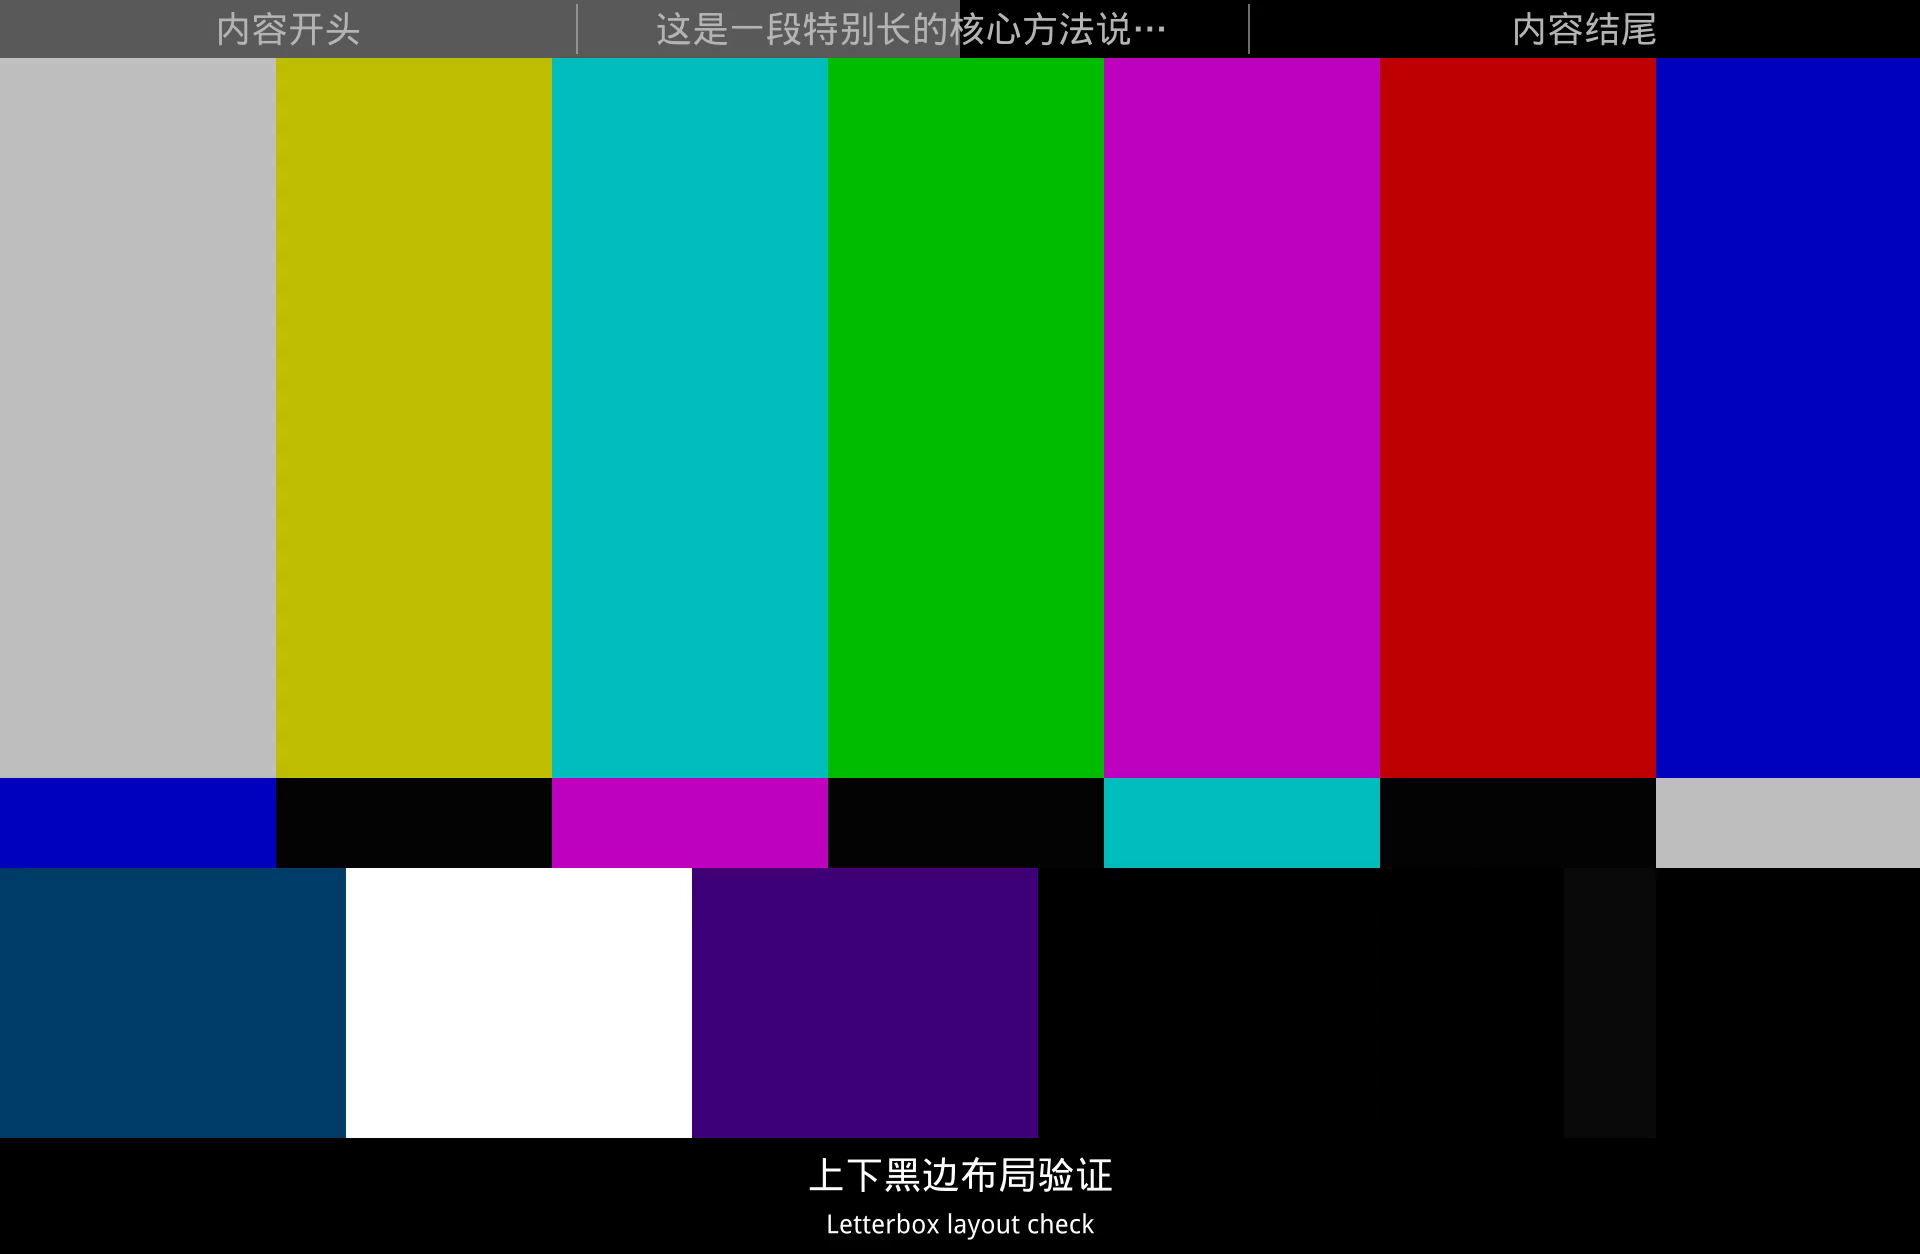
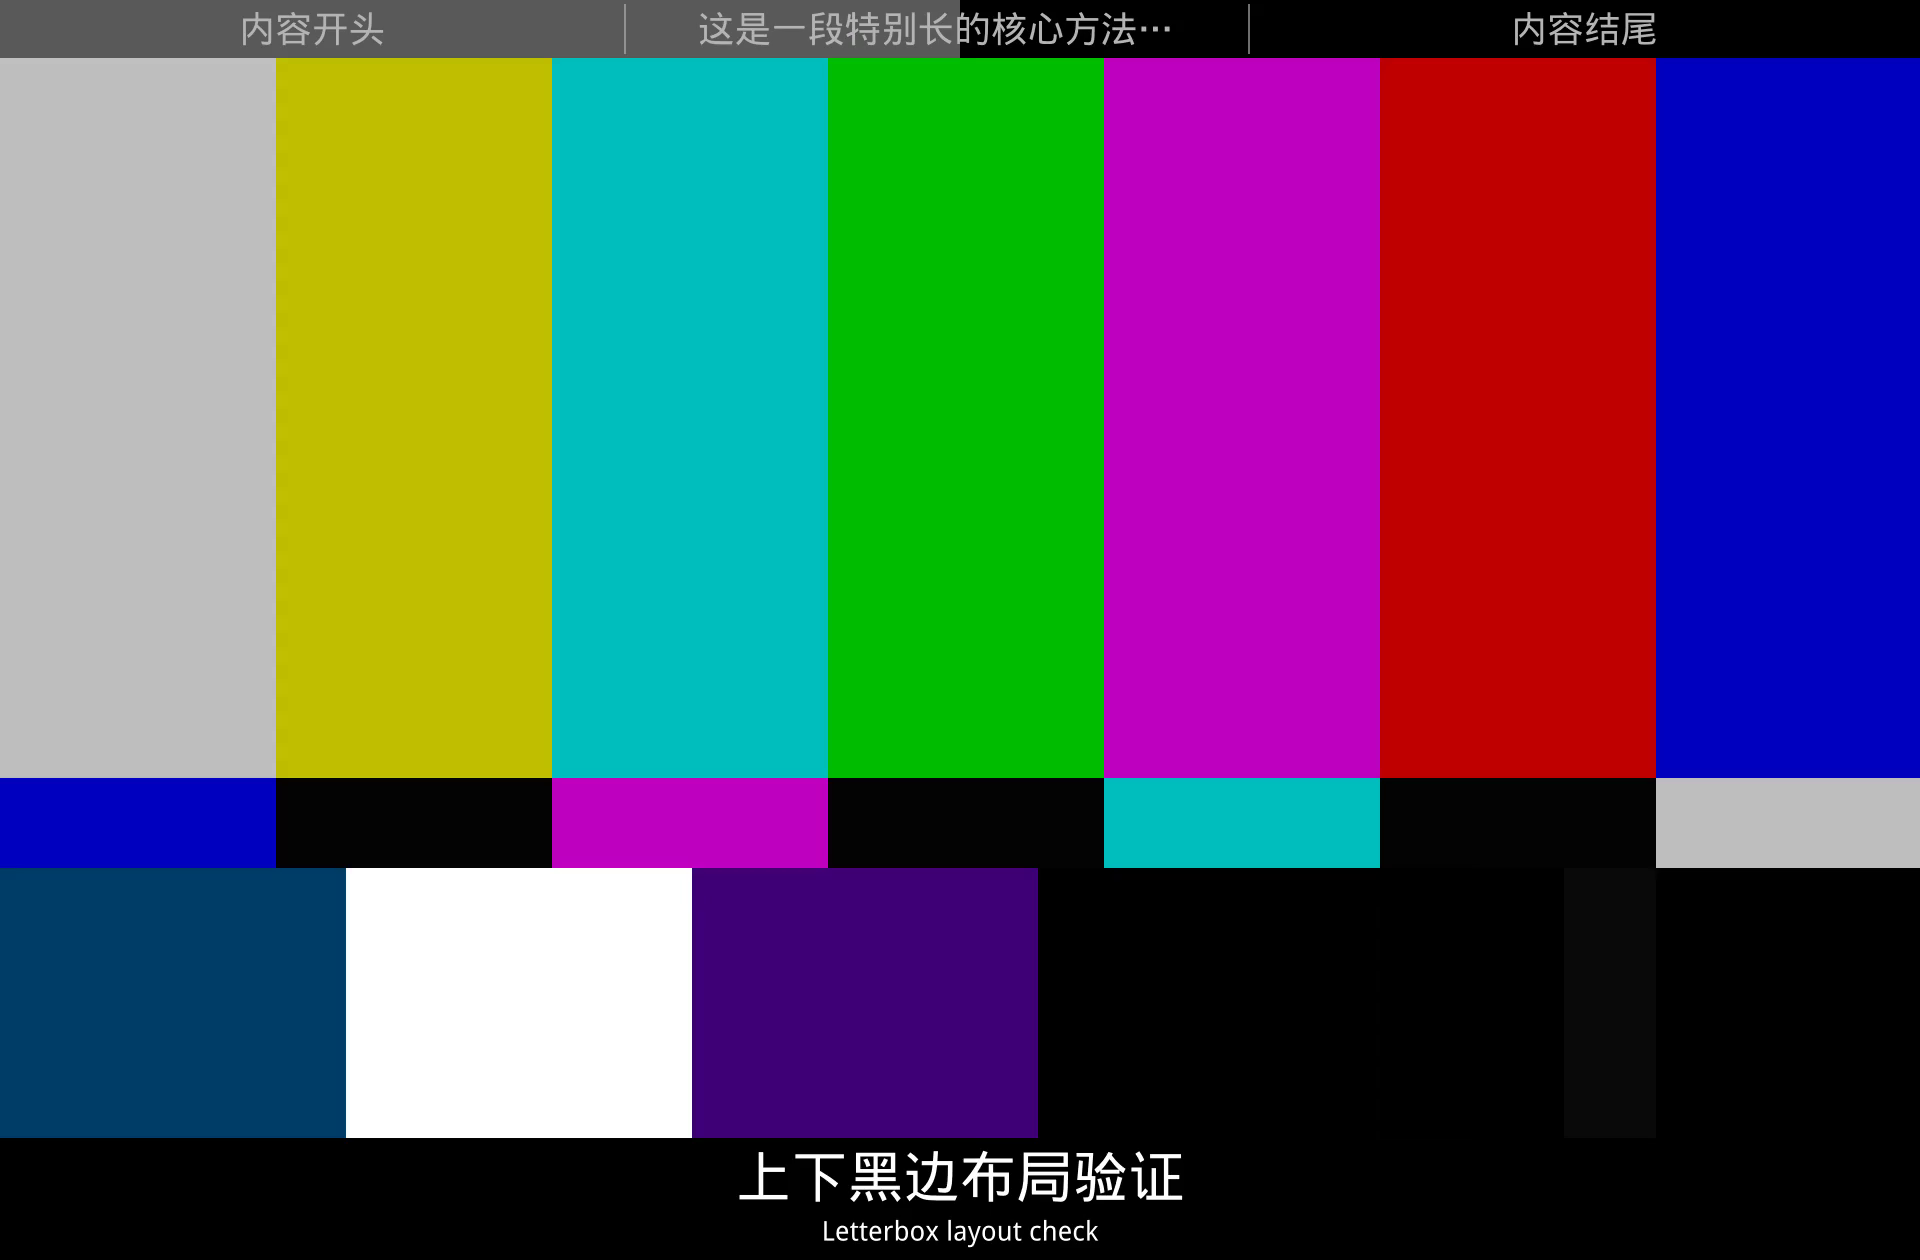
锁定 F3 底栏双语字幕排版
1080p 横屏中文约 66pt、英文约 32pt，行距收紧并顶对齐贴画面；顶栏窄章节条保持不变。

diff --git a/scripts/burn_subtitles.py b/scripts/burn_subtitles.py
@@ -37,6 +37,19 @@ _PROGRESS_LABEL_COLOUR = "&H00B4B4B4&"
 _PROGRESS_FILL_COLOUR = "&H00C8C8C8&"
 _PROGRESS_FILL_ALPHA = "&H8C&"
 _CAPTION_PRIMARY_COLOUR = "&H00FFFFFF&"
+# F3 bottom captions: larger Chinese, smaller English, packed toward the video.
+_CAPTION_ZH_FONT_MIN = 40
+_CAPTION_ZH_HEIGHT_RATIO_LANDSCAPE = 0.062
+_CAPTION_ZH_HEIGHT_RATIO_PORTRAIT = 0.050
+_CAPTION_EN_FONT_MIN = 20
+_CAPTION_EN_FONT_RATIO = 0.48
+_CAPTION_ZH_LINE_RATIO = 1.05
+_CAPTION_EN_LINE_RATIO = 1.08
+_CAPTION_STACK_GAP_RATIO = 0.04
+_CAPTION_STACK_TOP_INSET_RATIO = 0.08
+_CAPTION_BOTTOM_BREATHING_RATIO = 0.20
+_CAPTION_BOTTOM_PAD_MIN = 72
+_CAPTION_BOTTOM_PAD_MIN_BILINGUAL = 96
 _DEFAULT_BEAUTY_STRENGTH_PERCENT = 10.0
 _DEFAULT_BRIGHTEN_STRENGTH_PERCENT = 10.0
 _BRIGHTEN_LAYER_BRIGHTNESS = 0.08
@@ -581,8 +594,22 @@ def letterbox_layout(
     content_width = _even_dimension(content_width)
     content_height = _even_dimension(content_height)
     is_portrait = content_height > content_width
-    zh_font = max(40, int(content_height * (0.034 if is_portrait else 0.042)))
-    en_font = max(24, int(round(zh_font * 0.70))) if bilingual else 0
+    zh_font = max(
+        _CAPTION_ZH_FONT_MIN,
+        int(
+            content_height
+            * (
+                _CAPTION_ZH_HEIGHT_RATIO_PORTRAIT
+                if is_portrait
+                else _CAPTION_ZH_HEIGHT_RATIO_LANDSCAPE
+            )
+        ),
+    )
+    en_font = (
+        max(_CAPTION_EN_FONT_MIN, int(round(zh_font * _CAPTION_EN_FONT_RATIO)))
+        if bilingual
+        else 0
+    )
     progress_font = (
         max(
             _PROGRESS_FONT_MIN,
@@ -608,11 +635,19 @@ def letterbox_layout(
     else:
         top_pad = _even_dimension(max(48, int(content_height * 0.044)))
 
-    zh_line = int(zh_font * 1.20)
-    en_line = int(en_font * 1.22) if bilingual else 0
-    stack_gap = int(zh_font * 0.10) if bilingual else 0
+    zh_line = int(zh_font * _CAPTION_ZH_LINE_RATIO)
+    en_line = int(en_font * _CAPTION_EN_LINE_RATIO) if bilingual else 0
+    stack_gap = int(zh_font * _CAPTION_STACK_GAP_RATIO) if bilingual else 0
+    stack_top_inset = max(0, int(zh_font * _CAPTION_STACK_TOP_INSET_RATIO))
     bottom_pad = _even_dimension(
-        max(96 if bilingual else 72, zh_line + en_line + stack_gap + int(zh_font * 0.50))
+        max(
+            _CAPTION_BOTTOM_PAD_MIN_BILINGUAL if bilingual else _CAPTION_BOTTOM_PAD_MIN,
+            zh_line
+            + en_line
+            + stack_gap
+            + stack_top_inset
+            + int(zh_font * _CAPTION_BOTTOM_BREATHING_RATIO),
+        )
     )
     canvas_height = content_height + top_pad + bottom_pad
     if canvas_height % 2:
@@ -623,8 +658,7 @@ def letterbox_layout(
     progress_fill_y = 0
     progress_label_y = top_pad // 2
 
-    stack_height = zh_line + stack_gap + en_line
-    stack_top = content_height + top_pad + max(0, int((bottom_pad - stack_height) / 2))
+    stack_top = content_height + top_pad + stack_top_inset
     zh_y = stack_top + zh_line // 2
     en_y = stack_top + zh_line + stack_gap + max(en_line, 1) // 2 if bilingual else 0
 
@@ -953,7 +987,7 @@ def generate_ass(lines: list[dict], output_path: Path, video_width: int = 1920,
         [V4+ Styles]
         Format: Name, Fontname, Fontsize, PrimaryColour, SecondaryColour, OutlineColour, BackColour, Bold, Italic, Underline, StrikeOut, ScaleX, ScaleY, Spacing, Angle, BorderStyle, Outline, Shadow, Alignment, MarginL, MarginR, MarginV, Encoding
         Style: CaptionZh,{font_name},{layout['zh_font']},{_CAPTION_PRIMARY_COLOUR},&H000000FF,&H00000000,&H00000000,0,0,0,0,100,100,0,0,1,0,0,5,20,20,0,1
-        Style: CaptionEn,{font_name},{layout['en_font'] or max(24, int(layout['zh_font'] * 0.7))},{_CAPTION_PRIMARY_COLOUR},&H000000FF,&H00000000,&H00000000,0,0,0,0,100,100,0,0,1,0,0,5,20,20,0,1
+        Style: CaptionEn,{font_name},{layout['en_font'] or max(_CAPTION_EN_FONT_MIN, int(round(layout['zh_font'] * _CAPTION_EN_FONT_RATIO)))},{_CAPTION_PRIMARY_COLOUR},&H000000FF,&H00000000,&H00000000,0,0,0,0,100,100,0,0,1,0,0,5,20,20,0,1
         Style: CaptionBox,Arial,10,&H00FFFFFF,&H000000FF,&H00000000,&H00000000,0,0,0,0,100,100,0,0,1,0,0,7,0,0,0,1
         Style: ProgressLabel,{font_name},{progress_font},{_PROGRESS_LABEL_COLOUR},&H000000FF,&H00000000,&H00000000,0,0,0,0,100,100,0,0,1,0,0,5,0,0,0,1
 

diff --git a/tests/test_burn_subtitles.py b/tests/test_burn_subtitles.py
@@ -332,6 +332,16 @@ class LetterboxLayoutTests(unittest.TestCase):
         self.assertLess(layout["zh_y"], layout["canvas_height"])
         self.assertGreater(layout["en_y"], layout["zh_y"])
         self.assertLess(layout["en_y"], layout["canvas_height"])
+        bar_top = 1080 + layout["top_pad"]
+        stack_gap = int(layout["zh_font"] * 0.04)
+        stack_height = layout["zh_line_height"] + stack_gap + layout["en_line_height"]
+        centered_zh_y = (
+            bar_top
+            + max(0, int((layout["bottom_pad"] - stack_height) / 2))
+            + layout["zh_line_height"] // 2
+        )
+        self.assertNotEqual(layout["zh_y"], centered_zh_y)
+        self.assertLess(layout["zh_y"] - bar_top, layout["bottom_pad"] // 3)
         self.assertEqual(
             BURN_SUBTITLES.letterbox_pad_filter(layout),
             f"pad={layout['canvas_width']}:{layout['canvas_height']}:0:{layout['top_pad']}:black",
@@ -349,6 +359,30 @@ class LetterboxLayoutTests(unittest.TestCase):
         self.assertEqual(layout["zh_font"], captions["zh_font"])
         self.assertEqual(layout["en_font"], captions["en_font"])
         self.assertEqual(layout["progress_fill_height"], layout["top_pad"])
+
+    def test_f3_landscape_captions_are_larger_and_top_aligned(self):
+        layout = BURN_SUBTITLES.letterbox_layout(1920, 1080, bilingual=True, progress=True)
+        self.assertEqual(layout["zh_font"], 66)
+        self.assertEqual(layout["en_font"], 32)
+        self.assertEqual(layout["zh_line_height"], 69)
+        self.assertEqual(layout["en_line_height"], 34)
+        self.assertEqual(layout["bottom_pad"], 122)
+        bar_top = 1080 + layout["top_pad"]
+        stack_top = bar_top + max(0, int(layout["zh_font"] * 0.08))
+        self.assertEqual(layout["zh_y"], stack_top + layout["zh_line_height"] // 2)
+        self.assertEqual(
+            layout["en_y"],
+            stack_top + layout["zh_line_height"] + int(layout["zh_font"] * 0.04)
+            + layout["en_line_height"] // 2,
+        )
+        self.assertAlmostEqual(layout["en_font"] / layout["zh_font"], 0.48, places=2)
+        portrait = BURN_SUBTITLES.letterbox_layout(1080, 1920, bilingual=True)
+        self.assertEqual(portrait["zh_font"], 96)
+        self.assertGreater(portrait["zh_font"], 40)
+        self.assertNotEqual(
+            portrait["zh_font"],
+            max(40, int(1920 * 0.042)),
+        )
 
     def test_burned_ass_has_no_running_clock(self):
         with tempfile.TemporaryDirectory() as tmp:

diff --git a/tests/test_preview_editor.py b/tests/test_preview_editor.py
@@ -66,6 +66,33 @@ class ProgressLayoutTests(unittest.TestCase):
         self.assertNotIn("flex-basis: 16%", PREVIEW_EDITOR.HTML_TEMPLATE)
         self.assertNotIn(".burn-timestamp", PREVIEW_EDITOR.HTML_TEMPLATE)
 
+    def test_preview_captions_match_f3_packing(self):
+        caption = re.search(
+            r"\.current-subtitle\s*\{(?P<rules>.*?)\}",
+            PREVIEW_EDITOR.HTML_TEMPLATE,
+            re.DOTALL,
+        )
+        zh = re.search(
+            r"\.current-subtitle-zh\s*\{(?P<rules>.*?)\}",
+            PREVIEW_EDITOR.HTML_TEMPLATE,
+            re.DOTALL,
+        )
+        en = re.search(
+            r"\.current-subtitle-en\s*\{(?P<rules>.*?)\}",
+            PREVIEW_EDITOR.HTML_TEMPLATE,
+            re.DOTALL,
+        )
+        self.assertIsNotNone(caption)
+        self.assertIsNotNone(zh)
+        self.assertIsNotNone(en)
+        self.assertIn("justify-content: flex-start", caption.group("rules"))
+        self.assertNotIn("justify-content: center", caption.group("rules"))
+        self.assertIn("line-height: 1.05", caption.group("rules"))
+        self.assertIn("line-height: 1.05", zh.group("rules"))
+        self.assertIn("font-size: .48em", en.group("rules"))
+        self.assertIn("line-height: 1.08", en.group("rules"))
+        self.assertNotIn("font-size: .72em", PREVIEW_EDITOR.HTML_TEMPLATE)
+
 
 class ManualGlossaryHookTests(unittest.TestCase):
     def test_saving_source_subtitles_records_pending_agent_review(self):

diff --git a/scripts/preview_editor.py b/scripts/preview_editor.py
@@ -142,15 +142,15 @@ HTML_TEMPLATE = r"""<!DOCTYPE html>
   .current-subtitle {
     position: absolute;
     z-index: 7;
-    inset: 8% 6% 10%;
+    inset: 8% 6% auto;
     display: none;
     align-items: center;
-    justify-content: center;
+    justify-content: flex-start;
     flex-direction: column;
     text-align: center;
     font-family: "PingFang SC", "Hiragino Sans GB", "Microsoft YaHei", sans-serif;
-    font-size: clamp(14px, 2.2vw, 24px);
-    line-height: 1.25;
+    font-size: clamp(20px, 3.4vw, 36px);
+    line-height: 1.05;
     color: #ffffff;
     background: transparent;
     pointer-events: none;
@@ -159,14 +159,14 @@ HTML_TEMPLATE = r"""<!DOCTYPE html>
     text-overflow: ellipsis;
   }
   .current-subtitle.visible { display: flex; }
-  .current-subtitle-zh { font-size: 1em; font-weight: 600; line-height: 1.28; color: #ffffff; max-width: 100%; overflow: hidden; text-overflow: ellipsis; }
+  .current-subtitle-zh { font-size: 1em; font-weight: 600; line-height: 1.05; color: #ffffff; max-width: 100%; overflow: hidden; text-overflow: ellipsis; }
   .current-subtitle-en {
-    margin-top: 4px;
+    margin-top: 0.04em;
     color: #ffffff;
     font-family: -apple-system, BlinkMacSystemFont, "Helvetica Neue", Arial, sans-serif;
-    font-size: .72em;
+    font-size: .48em;
     font-weight: 500;
-    line-height: 1.28;
+    line-height: 1.08;
     max-width: 100%;
     overflow: hidden;
     text-overflow: ellipsis;
